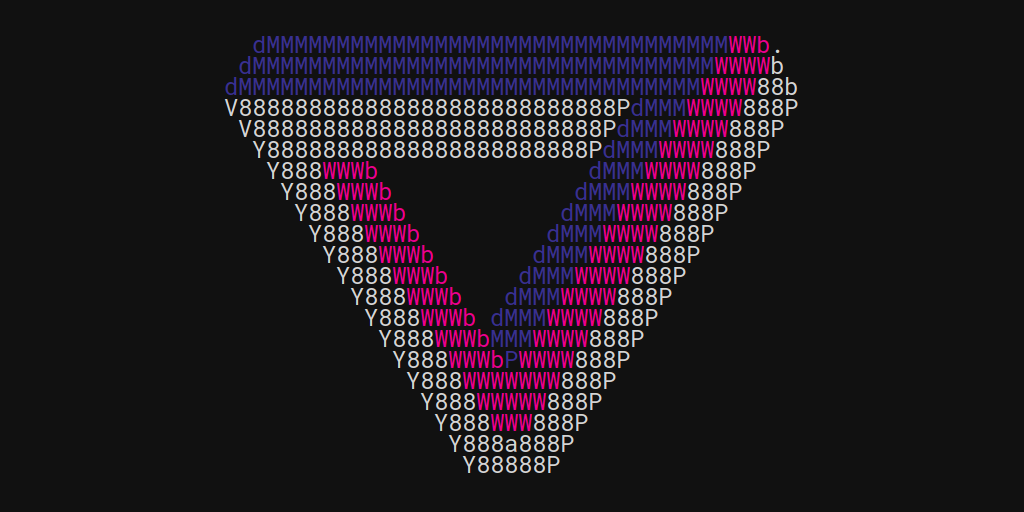
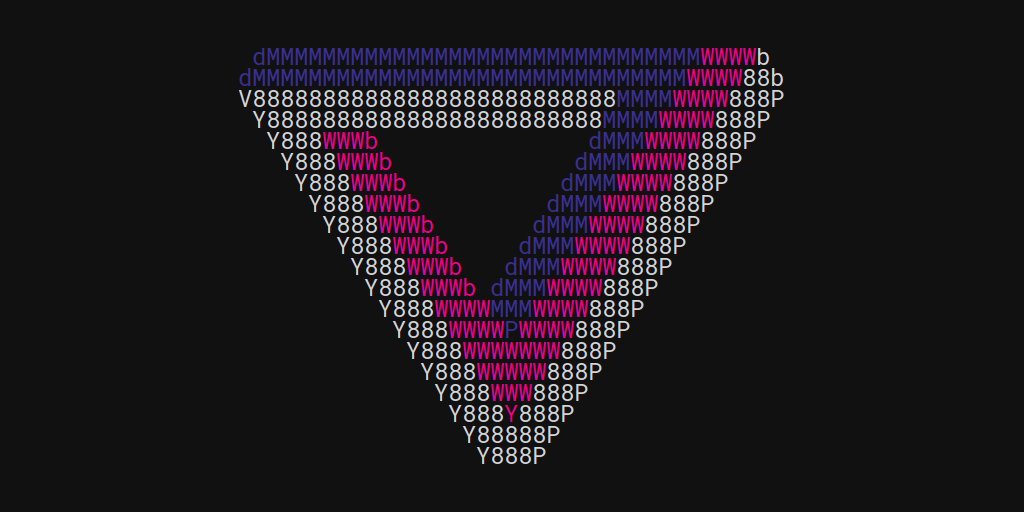
better design

Changed region(s): [[0.2188, 0.0625, 0.7812, 0.9375]]

diff --git a/art/verge/index.html b/art/verge/index.html
@@ -8,10 +8,8 @@ image: twitter.png
 ---
 
 <pre>
-  <span class="blue">dMMMMMMMMMMMMMMMMMMMMMMMMMMMMMMMMM</span><span class="pink">WWb</span>. 
- <span class="blue">dMMMMMMMMMMMMMMMMMMMMMMMMMMMMMMMMM</span><span class="pink">WWWW</span>b 
-<span class="blue">dMMMMMMMMMMMMMMMMMMMMMMMMMMMMMMMMM</span><span class="pink">WWWW</span>88b
-V8888888888888888888888888888<span class="blue">MMMM</span><span class="pink">WWWW</span>888P
+  <span class="blue">dMMMMMMMMMMMMMMMMMMMMMMMMMMMMMMM</span><span class="pink">WWWW</span>b 
+ <span class="blue">dMMMMMMMMMMMMMMMMMMMMMMMMMMMMMMM</span><span class="pink">WWWW</span>88b 
  V88888888888888888888888888<span class="blue">MMMM</span><span class="pink">WWWW</span>888P 
   Y888888888888888888888888<span class="blue">MMMM</span><span class="pink">WWWW</span>888P  
    Y888<span class="pink">WWWb</span>               <span class="blue">dMMM</span><span class="pink">WWWW</span>888P   
@@ -22,11 +20,12 @@ V8888888888888888888888888888<span class="blue">MMMM</span><span class="pink">WW
         Y888<span class="pink">WWWb</span>     <span class="blue">dMMM</span><span class="pink">WWWW</span>888P        
          Y888<span class="pink">WWWb</span>   <span class="blue">dMMM</span><span class="pink">WWWW</span>888P         
           Y888<span class="pink">WWWb</span> <span class="blue">dMMM</span><span class="pink">WWWW</span>888P          
-           Y888<span class="pink">WWWb</span><span class="blue">MMM</span><span class="pink">WWWW</span>888P           
-            Y888<span class="pink">WWWb<span class="blue">P</span>WWWW</span>888P            
+           Y888<span class="pink">WWWW</span><span class="blue">MMM</span><span class="pink">WWWW</span>888P           
+            Y888<span class="pink">WWWW<span class="blue">P</span>WWWW</span>888P            
              Y888<span class="pink">WWWWWWW</span>888P             
               Y888<span class="pink">WWWWW</span>888P              
                Y888<span class="pink">WWW</span>888P               
-                Y888a888P                
+                Y888<span class="pink">Y</span>888P                
                  Y88888P                 
+                  Y888P                  
 </pre>
